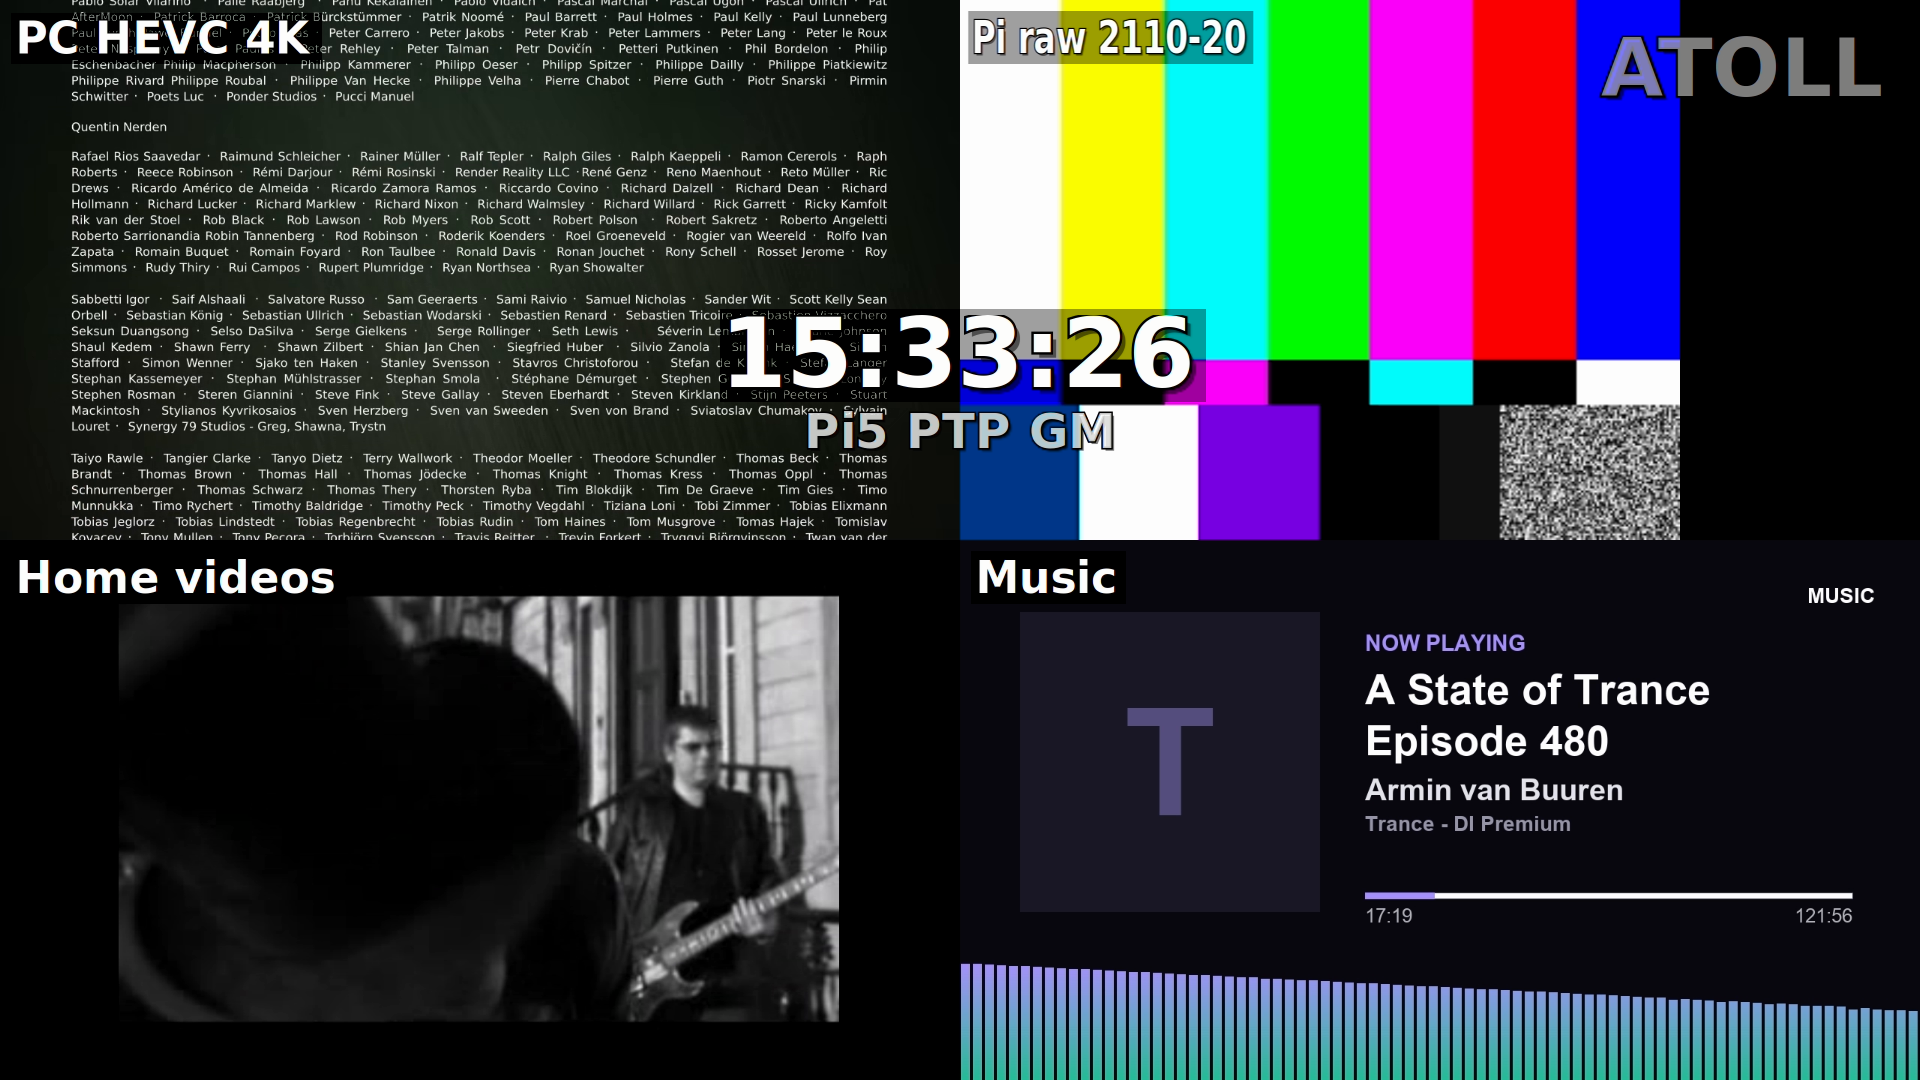
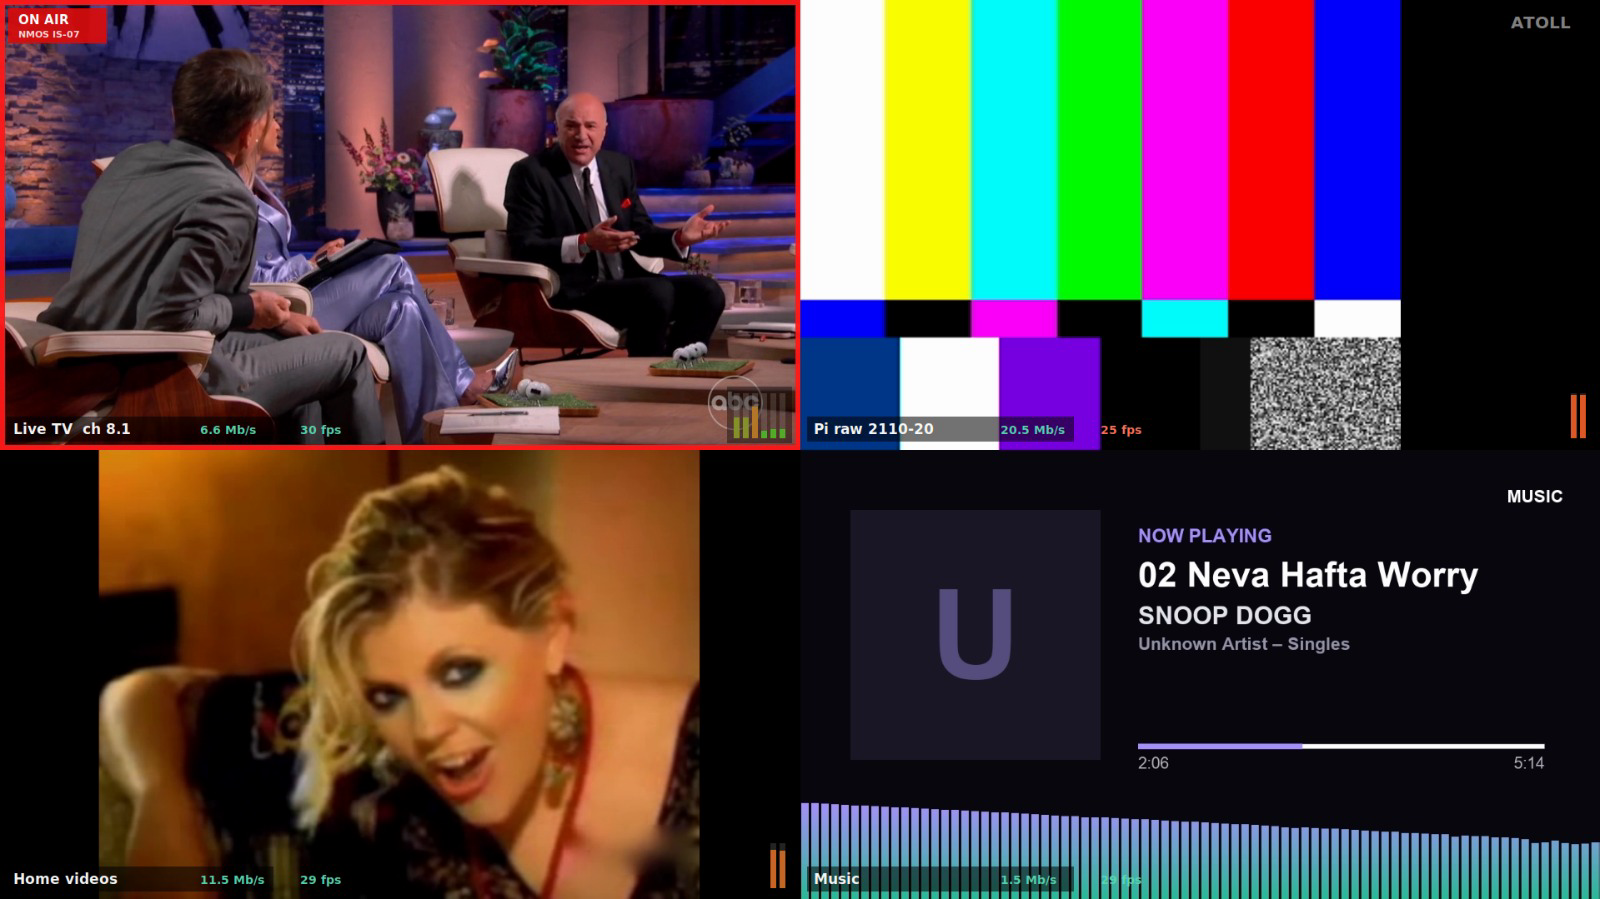
docs: replace the hero shot with the wall as it actually looks now
The old screenshot was from late August: the plain multi layout, with a centre clock overlay that has
since been removed and none of the instrumentation the wall grew afterwards. It no longer showed the
thing the README spends most of its words on.

The new shot is the wall layout, and every claim in the surrounding text is visible in it: per-tile
bitrate and frame rate measured off the wire (6.6 / 20.5 / 11.5 / 1.5 Mbit/s), frame rates that
differ per source because they genuinely are different (30 / 25 / 29 fps), audio meters, and the red
ON AIR flag on Live TV with "NMOS IS-07" under it -- tally arriving over the websocket rather than
read out of the panel. Alt text and caption rewritten to describe what is in the frame.

Captured by hand rather than by grab-screen.ps1. GDI's CopyFromScreen cannot faithfully grab the
WSLg-presented surface: it returns a partial composite showing the wall in the right half of the
monitor, while GetWindowRect correctly reports the window fullscreen at 2560x1440. Cropping the same
region out of a full virtual-desktop capture reproduces it exactly, so this is the capture path
being blind to WSLg, not a coordinate bug in the script -- the same class of blind spot as WSL's
nvidia-smi under-reporting GPU load on this rig. Worth knowing before trusting a screen grab here.

Claude-Session: https://claude.ai/code/session_01SEuc6q36KcB7pAUqjzu61r

diff --git a/README.md b/README.md
@@ -16,11 +16,11 @@ Every source is discoverable over NMOS and carries **IS-07 tally**.
 It started as a home lab for learning ST 2110 / NMOS end to end. Everything is config-driven, so with
 the right hardware you can re-home it to your own network by editing two files.
 
-![The Atoll multiview output: a 2x2 wall — PC HEVC, Pi raw ST 2110-20 (bars), home videos, and the Music "Now Playing" card](docs/img/multiview.png)
+![The Atoll wall on monitor 2: a 2x2 multiview — Live TV carrying a red ON AIR / NMOS IS-07 tally flag, the Pi's uncompressed ST 2110-20 colour bars, home videos, and the Music "Now Playing" card with its spectrum analyser — every tile showing its measured bitrate and frame rate](docs/img/multiview.png)
 
-*The monitor-2 output — the assignable 2×2 multiview. This shot is of the plain `multi` layout and
-predates two changes: the centre clock overlay it shows has since been removed, and the newer `wall`
-layout adds per-tile bitrate, frame rate, audio meters and IS-07 tally flags.*
+*The `wall` layout on monitor 2. Every tile carries the bitrate and frame rate measured off the wire,
+plus audio meters; the red flag on Live TV is real **NMOS IS-07 tally**, pushed from the emitter over
+WebSocket rather than read out of the panel's own state.*
 
 ---
 
